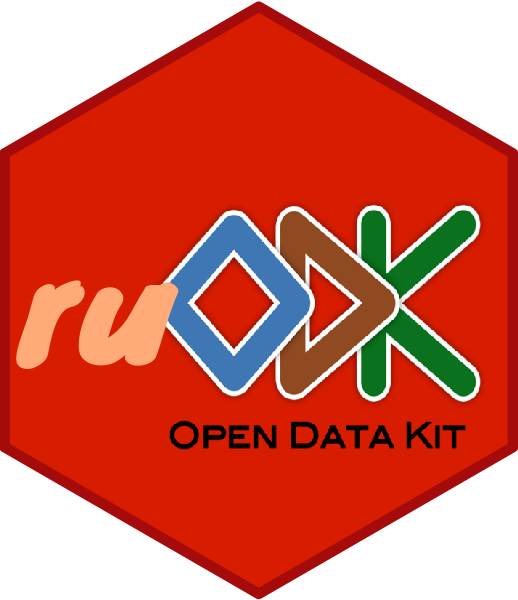
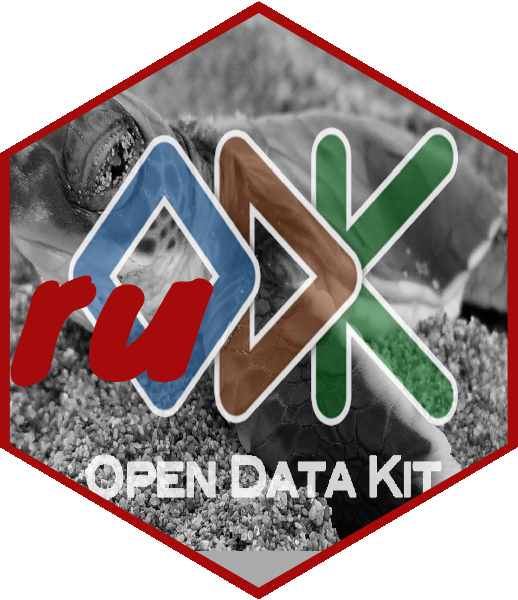
Update README
Do not install urODK as package
Update logo
Update default settings for tz and verbose
Fixes #1

diff --git a/README.md b/README.md
@@ -102,14 +102,16 @@ Run through the steps shown in the first part of the README:
 
 ### Install ruODK
 
-To run urODK in a hosted, disposable RStudio instance, hit the “binder”
-button. To install urODK in your own environment, run this (preferably
-ahead of the workshop):
+  - To run the ruODK workshop in a hosted, disposable RStudio instance,
+    hit the “binder” button.
+  - To install ruODK in your own environment, run this (preferably ahead
+    of the workshop to allow time for troubleshooting):
+
+<!-- end list -->
 
 ``` r
 if (!requireNamespace("remotes")) {install.packages("remotes")}
 remotes::install_github("dbca-wa/ruODK", force = T, dependencies = T, upgrade = "ask")
-remotes::install_github("dbca-wa/urODK", force = T)
 ```
 
 ### Configure ruODK
@@ -123,7 +125,9 @@ ruODK::ru_setup(
   svc = paste0("https://sandbox.central.opendatakit.org/v1/projects/14/",
                "forms/build_Flora-Quadrat-0-4_1564384341.svc"), 
   un = "me@email.com", 
-  pw = "..."
+  pw = "...",
+  tz = "Australia/Perth", # your local timezone
+  verbose = TRUE
 )
 ```
 
